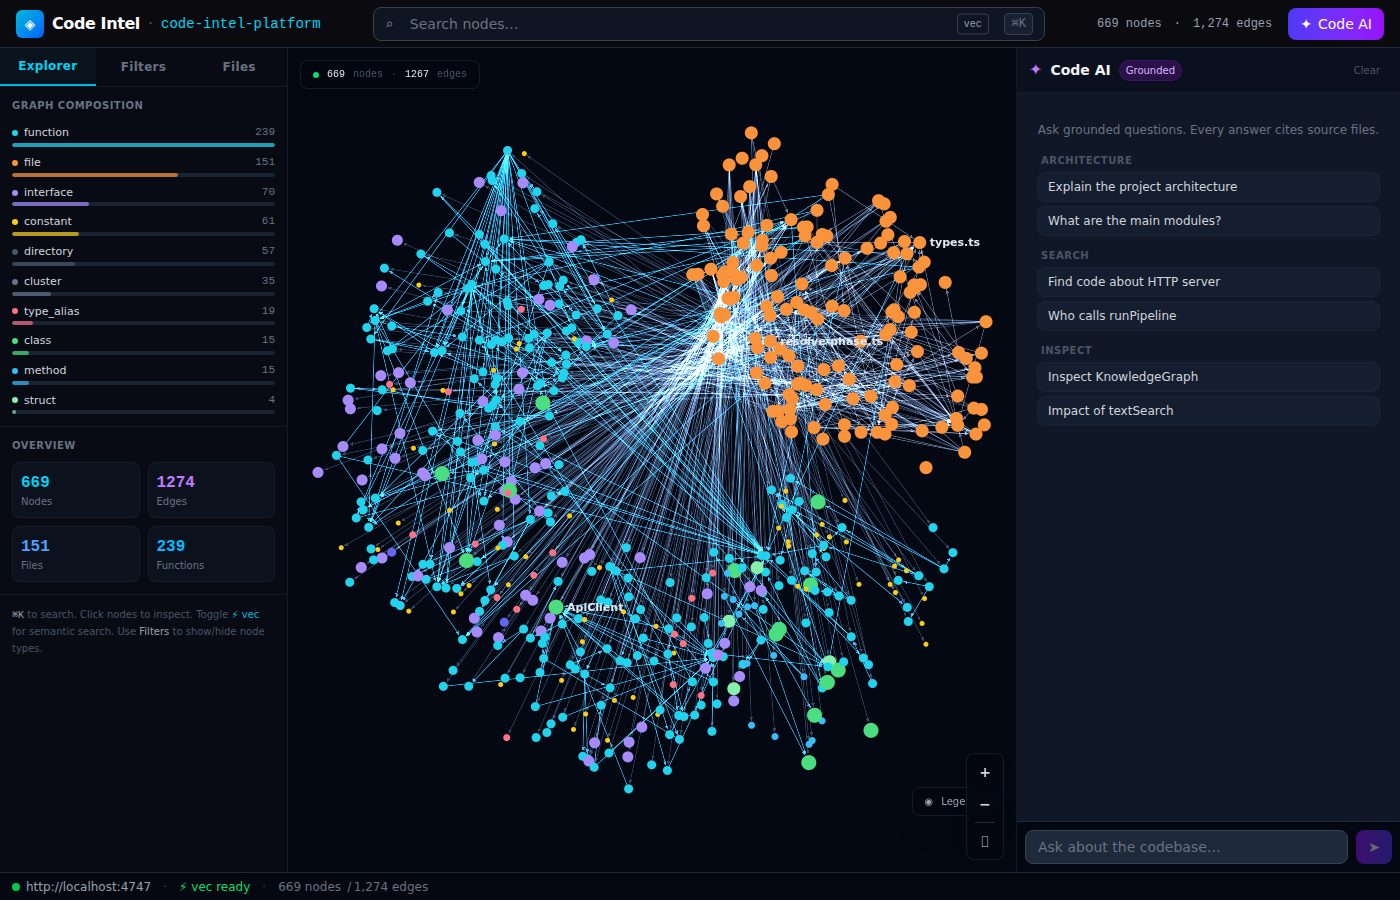
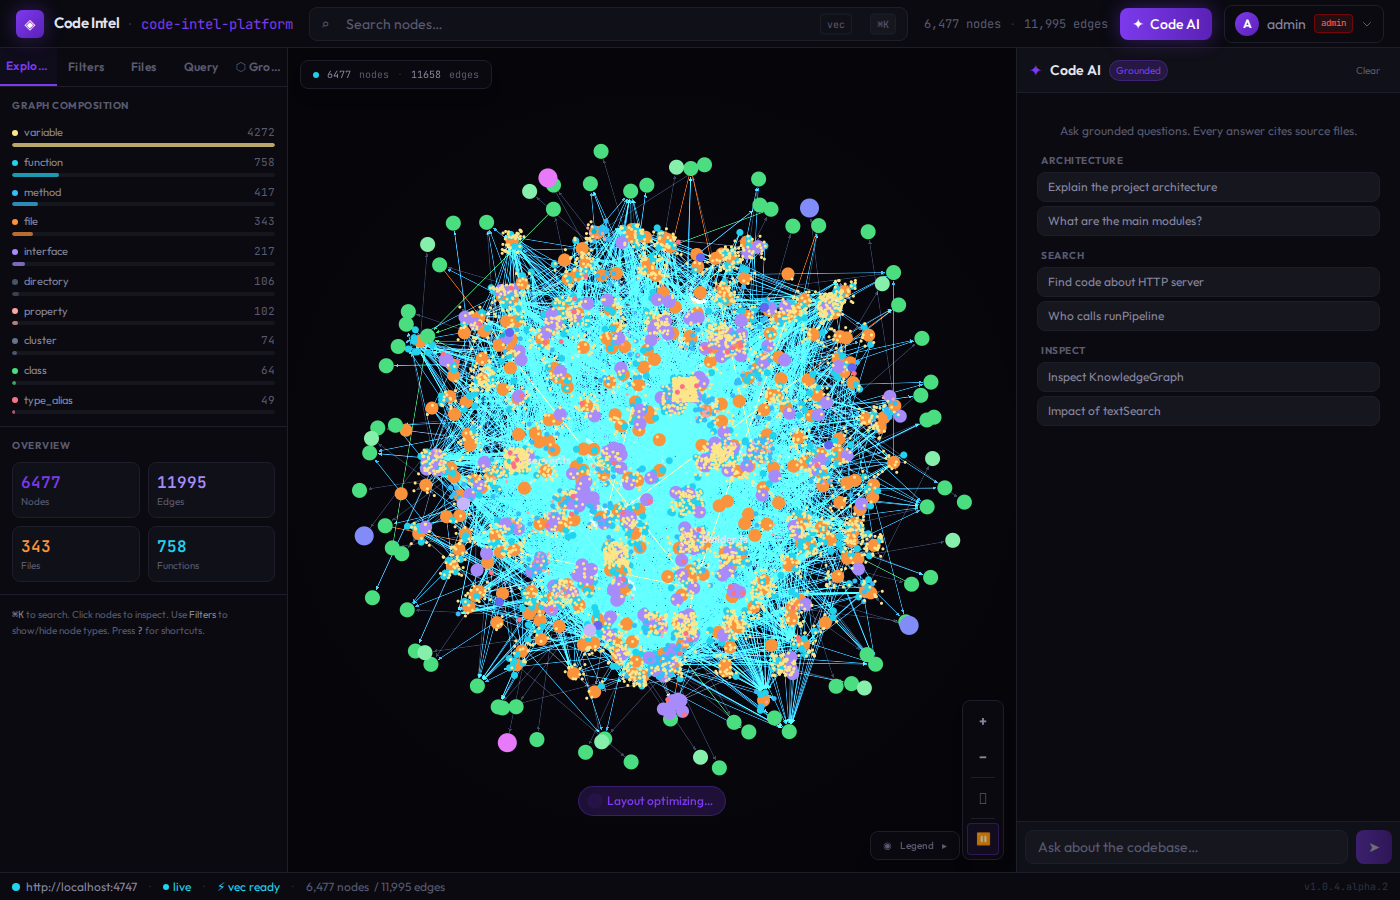
docs: sync README with v1.0.4 behavior

diff --git a/README.md b/README.md
@@ -1,6 +1,6 @@
 # Code Intelligence Platform
 
-[![npm version](https://img.shields.io/badge/npm-v1.0.1-blue)](https://www.npmjs.com/package/@vohongtho.infotech/code-intel)
+[![npm version](https://img.shields.io/badge/npm-v1.0.4-blue)](https://www.npmjs.com/package/@vohongtho.infotech/code-intel)
 
 A static code analysis platform that builds a **Knowledge Graph** from your source code and makes it explorable through a Web UI, HTTP API, CLI, and MCP server.
 
@@ -34,6 +34,7 @@ A static code analysis platform that builds a **Knowledge Graph** from your sour
 - **AI Context Files** — auto-generates `AGENTS.md`, `CLAUDE.md`, `.github/copilot-instructions.md`, `.cursor/rules/code-intel.mdc`, `.kiro/steering/code-intel.md`, `.clinerules`, `.windsurfrules`, `.kilocode/rules/code-intel-rules.md`, and `.agents/rules/code-intel-rules.md` after every analysis — supporting Amp, Claude Code, Codex, Copilot, Cursor, Aider, Gemini, Kiro, Trae, Hermes, Factory, OpenCode, Pi, Antigravity, OpenClaw, Cline, Windsurf, Kilo Code, and more
 - **Agent Hook System** _(v1.0.2)_ — `code-intel setup` installs PreToolUse hooks for all major AI agents; when an agent runs `grep MyClass src/`, the `code-intel-hook` binary (~10KB, ~50ms startup) silently rewrites it to `code-intel search "MyClass"` — saving ~3,000 tokens per lookup; supports Claude Code, Cursor, Gemini CLI, GitHub Copilot (VS Code + CLI), OpenCode, OpenClaw; rules files for Cline/Roo Code, Windsurf, Kilo Code, Antigravity, Codex CLI
 - **Repository Groups** — multi-repo / monorepo service tracking with workspace auto-discovery (npm, pnpm, Nx, Turborepo), contract extraction (OpenAPI, GraphQL, Protobuf), type-aware similarity scoring, and cross-repo dependency detection
+  - **OpenAPI note:** contract extraction currently parses **JSON** OpenAPI/Swagger specs. YAML filenames are discovered, but YAML parsing is not implemented in `v1.0.4`.
 - **`.codeintelignore`** — exclude directories from analysis (like `.gitignore` but for code-intel)
 - **Structured Logging** — winston-based logger with daily-rotating log files at `~/.code-intel/logs/`, sensitive-data masking, and configurable log levels
 - **Performance** — parallel batch file I/O, shared file cache (zero double-reads), O(log n) binary-search enclosing-function lookup
@@ -51,6 +52,7 @@ A static code analysis platform that builds a **Knowledge Graph** from your sour
 - **Pipeline Profiling** _(v1.0)_ — `analyze --profile` writes `.code-intel/profile.json`; per-phase heap memory captured; bottleneck warning if any phase >50% of total; verbose timing table
 - **Load & Soak Tests** _(v1.0)_ — nightly CI load tests (1k/10k fixture repos), weekly soak tests (memory stability, watcher throughput), regression gate: >20% regression fails CI; `tests/perf/baseline.json` committed to repo
 - **Graceful Degradation** _(v1.0)_ — `X-Stale`/`X-Stale-Since` headers on DB outage; LLM-unavailable summarize skip; MCP tool timeout → `{ truncated: true }`; watcher crash recovery; worker crash retry
+  - **Worker note for v1.0.4:** parallel analysis retries worker crashes, but `v1.0.4` does not introduce a new user-facing worker timeout control. Treat long/stalled analysis as runtime investigation, not documented timeout recovery behavior.
 - **Token-Efficient MCP** _(v1.0.1)_ — compact JSON responses (null/undefined stripped); MCP tool defaults tuned for LLM sessions: `search`/`file_symbols`/`list_exports` default 10 results (was 50), `blast_radius`/`pr_impact` default 2 hops (was 5); `suggested_next_tools` opt-in via `CODE_INTEL_SUGGEST_NEXT_TOOLS=true`; ~63% fewer tokens per typical 5-tool session
 - **Context Builder** _(v1.0.1)_ — `src/context/builder.ts` builds structured `[SUMMARY]` / `[LOGIC]` / `[RELATION]` / `[FOCUS CODE]` documents from seed symbols in ≤50% of v1.0.0 token cost; query-intent presets (`code`, `callers`, `architecture`, `auto`); adaptive snippets; cross-block dedup; `code-intel context <symbols...> --show-context`
 - **Enforced Tool Policy in AI Context Files** _(v1.0.1)_ — `AGENTS.md`/`CLAUDE.md`/`copilot-instructions.md`/`.cursor/rules`/`.kiro/steering` now include a `TOOL POLICY: ENFORCED` block forbidding raw `grep`/`find`/`cat` in favour of `code-intel search` → `inspect` → `impact`; saves ~3,000 tokens per cold-file lookup
@@ -73,6 +75,14 @@ npm install -g @vohongtho.infotech/code-intel
 ```
 
 > **Default secret storage:** the CLI stores secrets in the encrypted `.code-intel/.secrets` file backend. No OS keychain package is required for the default install.
+>
+> **Upgrade note for v1.0.4:** After upgrading, re-build the local index before comparing results or using `serve`/`status` against old data:
+>
+> ```bash
+> code-intel analyze --force
+> ```
+>
+> This refreshes `.code-intel/graph.db` and `.code-intel/meta.json`. Comparing fresh CLI behavior against stale indexes can look like a regression when it is only old index state.
 
 Verify the installation:
 
